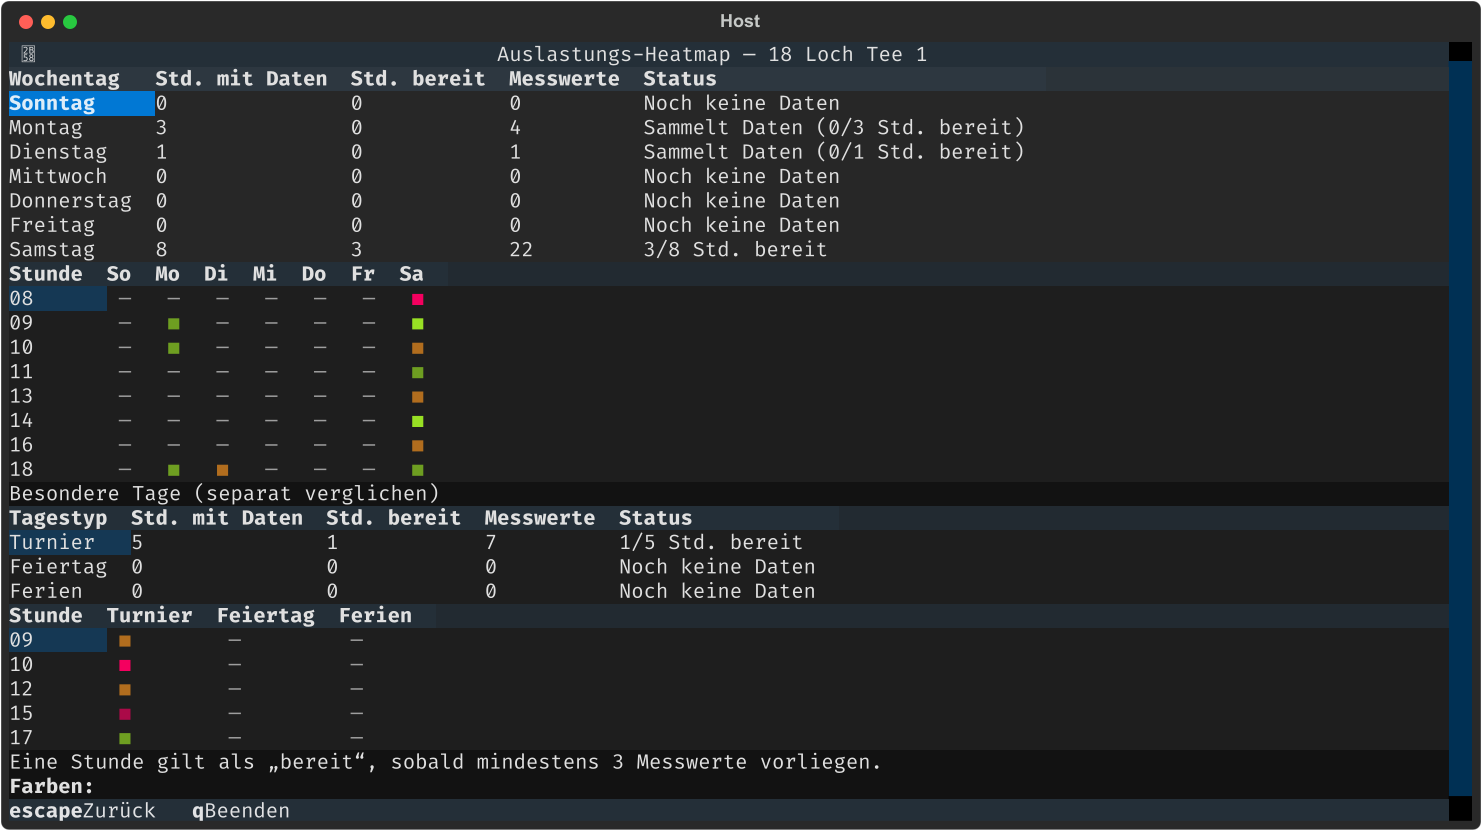
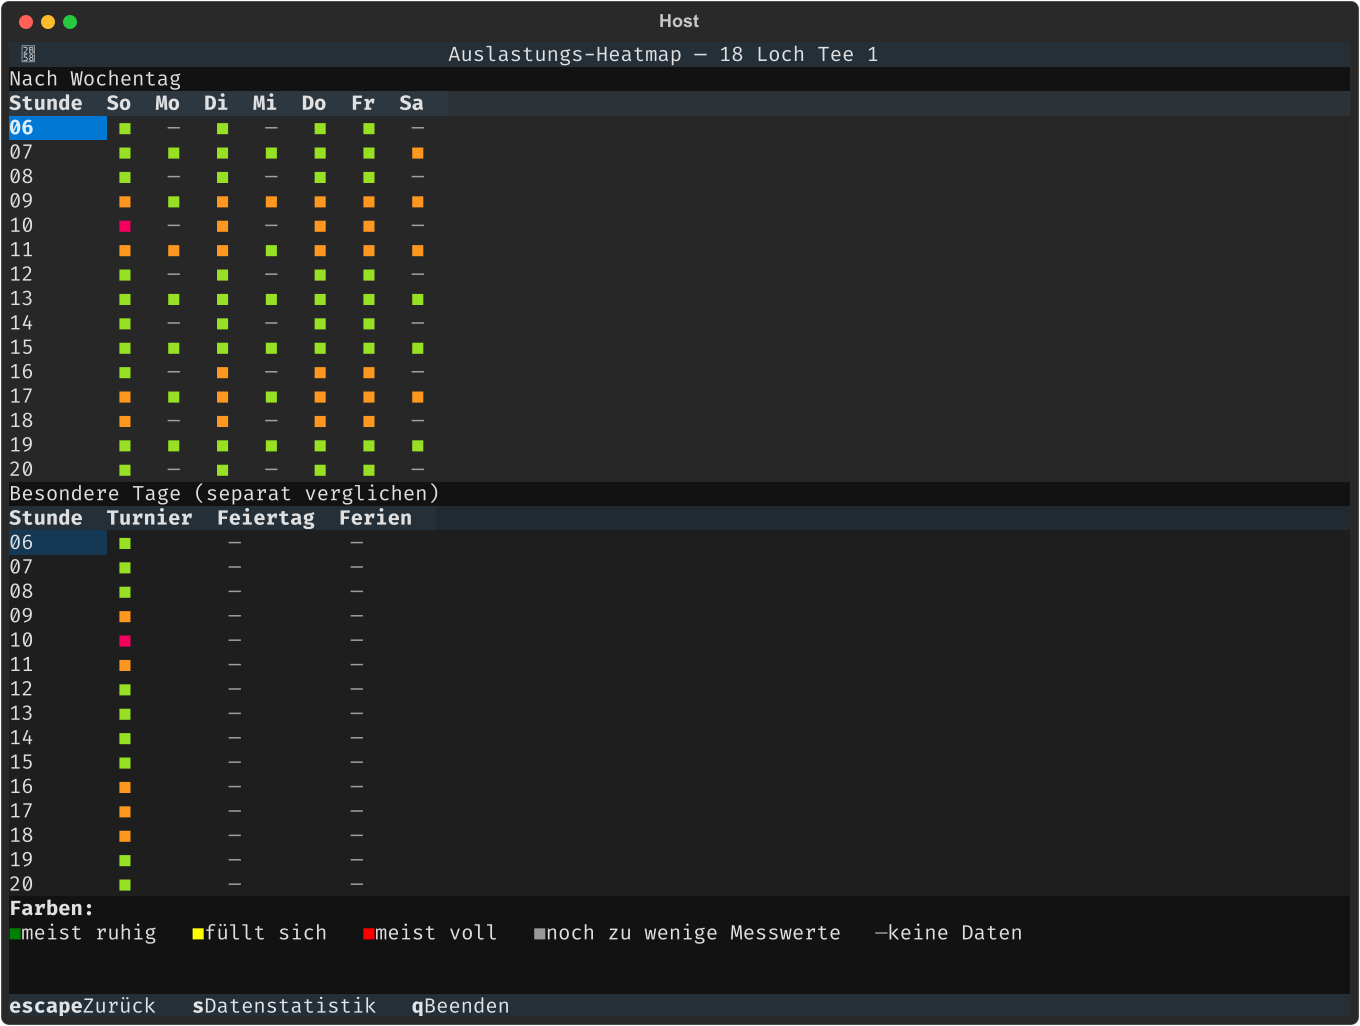
Refresh README screenshots and stale prose (unchanged since v0.19.0) (#125)
All six English/German TUI screenshots were 30+ versions out of date --
still showing the pre-redesign Overview/Settings/Search layout from
2026-09-05. Regenerated against fresh, clearly-fictional demo data
("Golfclub Musterhausen e.V.", player names all "X Mustermann"/"X
Musterfrau" -- the German "John Doe" convention -- never real scraped
data) via Textual's own screenshot export, so every screen now matches
what actually ships: the redesigned Overview columns, the new Priorities
section (friends + handicap preference), the split heatmap/readiness
screens, and the real Actions menu contents.

Also fixed prose that had drifted from the code alongside the old
screenshots: AI ranking is multi-provider now, not Anthropic-only; a pc
caddie login also unlocks the player directory and handicap preference;
the heatmap's readiness tables moved to their own screen.

Claude-Session: https://claude.ai/code/session_01GwmcGEm4mf3iAiCuVnCLBL

Changed region(s): [[0.0, 0.0, 1.0, 1.0], [0.6485, 0.9025, 0.7412, 0.9326], [0.3397, 0.2106, 0.3706, 0.3008]]

diff --git a/README.de.md b/README.de.md
@@ -64,8 +64,8 @@ Alles oben funktioniert ohne jede dieser Zutaten. Jede bringt nur etwas dazu:
 
 | Zusatz | Bringt |
 |---|---|
-| pc-caddie-Login (`l` in der Club-Suche) | Clubs nach Namen durchsuchen, und eigene Buchungen automatisch übernehmen statt sie selbst zu markieren |
-| [Anthropic](https://www.anthropic.com/)-API-Key | KI-bewertete Empfehlungen (standardmäßig aus, kostenpflichtig pro Empfehlung) |
+| pc-caddie-Login (`l` in der Club-Suche) | Clubs nach Namen durchsuchen, eigene Buchungen und Handicap automatisch übernehmen, echte Spielernamen (falls dein Club sie teilt), ein durchsuchbares Spielerverzeichnis, und Zeiten mit Freunden oder ähnlichem/besserem Handicap bevorzugen |
+| API-Key eines KI-Anbieters ([Anthropic](https://www.anthropic.com/), OpenAI, Gemini oder Grok) | KI-bewertete Empfehlungen (standardmäßig aus, kostenpflichtig pro Empfehlung) |
 
 **Voraussetzungen:** macOS oder Linux und [Homebrew](https://brew.sh/).
 
@@ -98,7 +98,12 @@ gerade anschaust.
 Ein 🌙 markiert jede Startzeit, deren Runde vor Sonnenuntergang nicht mehr fertig wird —
 gerechnet mit deinem eigenen Tempo für 9 oder 18 Loch.
 
-<p align="center"><img src="assets/de/settings.png" alt="Die Einstellungen, nach Verfügbarkeit und Wetter gruppiert"></p>
+Mit pc-caddie-Login nutzen zwei weitere Vorgaben echte Daten, die dein Club teilt:
+Zeiten bevorzugen, in denen ein markierter Freund schon gebucht ist, oder in denen das
+Feld ein ähnliches (oder besseres) Handicap hat als du selbst — automatisch erfasst,
+nie eingetippt.
+
+<p align="center"><img src="assets/de/settings.png" alt="Die Einstellungen, nach Verfügbarkeit, Wetter und Prioritäten gruppiert"></p>
 
 ### Suche für die Ausnahmen
 
@@ -124,9 +129,10 @@ und nicht mit gewöhnlichen Montagen.
 
 Das Raster stellt Stunden gegen Wochentage: voll eingefärbt, sobald genug Messwerte für
 eine Aussage da sind, gedimmt, solange es noch zu wenige sind, leer, wo noch nichts
-erfasst wurde. Die Tabellen darüber zeigen, wie weit jeder Wochentag schon ist.
+erfasst wurde. Ein eigener Datenstand-Bildschirm (`s` von hier aus) zeigt, wie weit
+jeder Wochentag schon ist.
 
-<p align="center"><img src="assets/de/heatmap.png" alt="Die Auslastungs-Heatmap: Datenstand-Tabellen über dem farbigen Raster aus Stunden und Wochentagen"></p>
+<p align="center"><img src="assets/de/heatmap.png" alt="Die Auslastungs-Heatmap: das farbige Raster aus Stunden und Wochentagen, nach Wochentag und nach besonderem Tagtyp"></p>
 
 ### Ein Menü, zwei Sprachen, elf Designs
 
@@ -195,7 +201,7 @@ sich mit `TEETIME_MONITOR_CONFIG_DIR` / `TEETIME_MONITOR_DATA_DIR` überschreibe
 ```
 ~/.config/teetime-monitor/
     clubs/<club-id>.yaml    # pro Club: Koordinaten, overview_days, Standardplatz
-    .env                    # PCC_USER / PCC_PASS / ANTHROPIC_API_KEY
+    .env                    # PCC_USER / PCC_PASS / API-Key eines KI-Anbieters (Einstellungen → KI-Anbieter)
     preferences.yaml        # Verfügbarkeit, Wetter, KI, Tempo, Intervall
     config                  # THEME=, LANG=
 
@@ -268,7 +274,7 @@ src/
 ├── scrape_once.py            # geplanter Abruf + Abgleich mit „Meine Reservierungen"
 ├── storage.py                # SQLite-Persistenz
 ├── search.py / recommend.py  # harte Filter, dann Wetter/Tageslicht + KI-Bewertung
-├── ai_assist.py              # die drei Claude-Aufrufe (einordnen, bewerten, zusammenfassen)
+├── ai_assist.py              # die drei KI-Aufrufe (einordnen, bewerten, zusammenfassen), mehrere Anbieter
 ├── weather.py                # Open-Meteo-Client
 ├── booking_watch.py          # hat sich an einer bestätigten Buchung etwas geändert?
 ├── playability.py            # wird diese Runde vor Sonnenuntergang fertig?
@@ -276,6 +282,8 @@ src/
 ├── calendar_context.py       # Feiertage + Ferien -> Tagtyp
 ├── settings_screen.py        # Einstellungen (in der App oder eigenständig)
 ├── credentials_screen.py     # Login (in der App oder eigenständig)
+├── ai_credentials_screen.py  # KI-Anbieter einrichten (in der App oder eigenständig)
+├── known_players_screen.py   # Spielerverzeichnis -- Freunde markieren, Handicaps sehen
 ├── club_config.py            # Favoriten
 ├── club_directory.py         # Club-Verzeichnis im Cache + ID-Erkennung
 ├── geocode.py                # Standortsuche für einen neuen Club
@@ -306,7 +314,8 @@ Abruf aus „Meine Reservierungen", nicht in Echtzeit — **r** erzwingt es sofo
 Stornierung auf der echten Seite wird genauso erkannt.
 
 **Die KI-Bewertung tut nichts.** Sie ist standardmäßig aus (Einstellungen →
-KI-Bewertung) und braucht ohnehin `ANTHROPIC_API_KEY` in der `.env`.
+KI-Bewertung) und braucht zuerst einen eingerichteten Anbieter-API-Key (Einstellungen
+→ KI-Anbieter — Anthropic, OpenAI, Gemini oder Grok).
 
 **In der Heatmap steht überall „Noch keine Daten".** Auf einer frischen Installation
 normal — sie braucht ein paar Wochen Abrufe. Die Tabellen zeigen, wie weit es ist.

diff --git a/README.md b/README.md
@@ -63,8 +63,8 @@ Everything above works with none of these. Each one is additive:
 
 | Add | Unlocks |
 |---|---|
-| A pc caddie login (`l` in the club browser) | Searching the club directory by name, and reading your own confirmed bookings automatically instead of marking them by hand |
-| An [Anthropic](https://www.anthropic.com/) API key | AI-ranked recommendations (off by default; a paid API call per recommendation) |
+| A pc caddie login (`l` in the club browser) | Searching the club directory by name, reading your own confirmed bookings and handicap automatically, real player names (if your club shares them), a browsable player directory, and preferring slots with friends or a similar/better handicap |
+| An AI provider API key ([Anthropic](https://www.anthropic.com/), OpenAI, Gemini, or Grok) | AI-ranked recommendations (off by default; a paid API call per recommendation) |
 
 **Requirements:** macOS or Linux, and [Homebrew](https://brew.sh/).
 
@@ -96,7 +96,11 @@ per-club: your own availability doesn't change depending on which course you che
 A 🌙 marks any tee time whose round wouldn't finish before sunset, based on your own
 pace for 9 or 18 holes.
 
-<p align="center"><img src="assets/en/settings.png" alt="The settings screen, with availability and weather preferences grouped into sections"></p>
+With a pc caddie login, two more preferences use real data your club shares: prefer
+slots where a marked friend is already booked, or where the field's handicap is
+similar to (or better than) your own — auto-scraped, never typed in.
+
+<p align="center"><img src="assets/en/settings.png" alt="The settings screen, with availability, weather, and priority preferences grouped into sections"></p>
 
 ### Search, for the exceptions
 
@@ -122,9 +126,9 @@ normal Mondays.
 
 The grid shows hour-of-day against weekday — full colour once an hour has enough
 samples to trust, dimmed while it's still thin, blank where nothing's been scraped.
-The tables above it say how far along each weekday is.
+A separate readiness screen (`s` from here) says how far along each weekday is.
 
-<p align="center"><img src="assets/en/heatmap.png" alt="The crowd heatmap: readiness tables above the colored hour-by-weekday grid"></p>
+<p align="center"><img src="assets/en/heatmap.png" alt="The crowd heatmap: the colored hour-by-weekday grid, by weekday and by special day type"></p>
 
 ### One menu, two languages, eleven themes
 
@@ -190,7 +194,7 @@ directory). Both are overridable with `TEETIME_MONITOR_CONFIG_DIR` /
 ```
 ~/.config/teetime-monitor/
     clubs/<club-id>.yaml    # per-club: location, overview_days, default_course
-    .env                    # PCC_USER / PCC_PASS / ANTHROPIC_API_KEY
+    .env                    # PCC_USER / PCC_PASS / an AI provider key (Settings → AI provider)
     preferences.yaml        # availability, weather, AI, pace, interval
     config                  # THEME=, LANG=
 
@@ -261,7 +265,7 @@ src/
 ├── scrape_once.py            # scheduled scrape + "My Reservations" sync
 ├── storage.py                # SQLite persistence
 ├── search.py / recommend.py  # hard filters, then weather/daylight + AI ranking
-├── ai_assist.py              # the three Claude calls (classify, rank, summarize)
+├── ai_assist.py              # the three AI calls (classify, rank, summarize), multi-provider
 ├── weather.py                # Open-Meteo client
 ├── booking_watch.py          # did a confirmed booking's situation change?
 ├── playability.py            # does this round finish before sunset?
@@ -269,6 +273,8 @@ src/
 ├── calendar_context.py       # holidays + vacations -> day type
 ├── settings_screen.py        # preferences screen (in-app or standalone)
 ├── credentials_screen.py     # login screen (in-app or standalone)
+├── ai_credentials_screen.py  # AI provider setup (in-app or standalone)
+├── known_players_screen.py   # player directory -- mark friends, see handicaps
 ├── club_config.py            # favourites
 ├── club_directory.py         # cached club directory + id parsing
 ├── geocode.py                # weather-location lookup for a new club
@@ -298,7 +304,8 @@ Reservations" on each scheduled scrape, not live — **r** forces it immediately
 cancellation on the real site is picked up the same way.
 
 **AI ranking isn't doing anything.** It's off by default (Settings → AI ranking) and
-needs `ANTHROPIC_API_KEY` in `.env` regardless.
+needs a provider API key set up first (Settings → AI provider — Anthropic, OpenAI,
+Gemini, or Grok).
 
 **The heatmap is all "no data yet".** Expected on a new install — it needs a few
 weeks of scrapes. The readiness tables show how far along it is.
